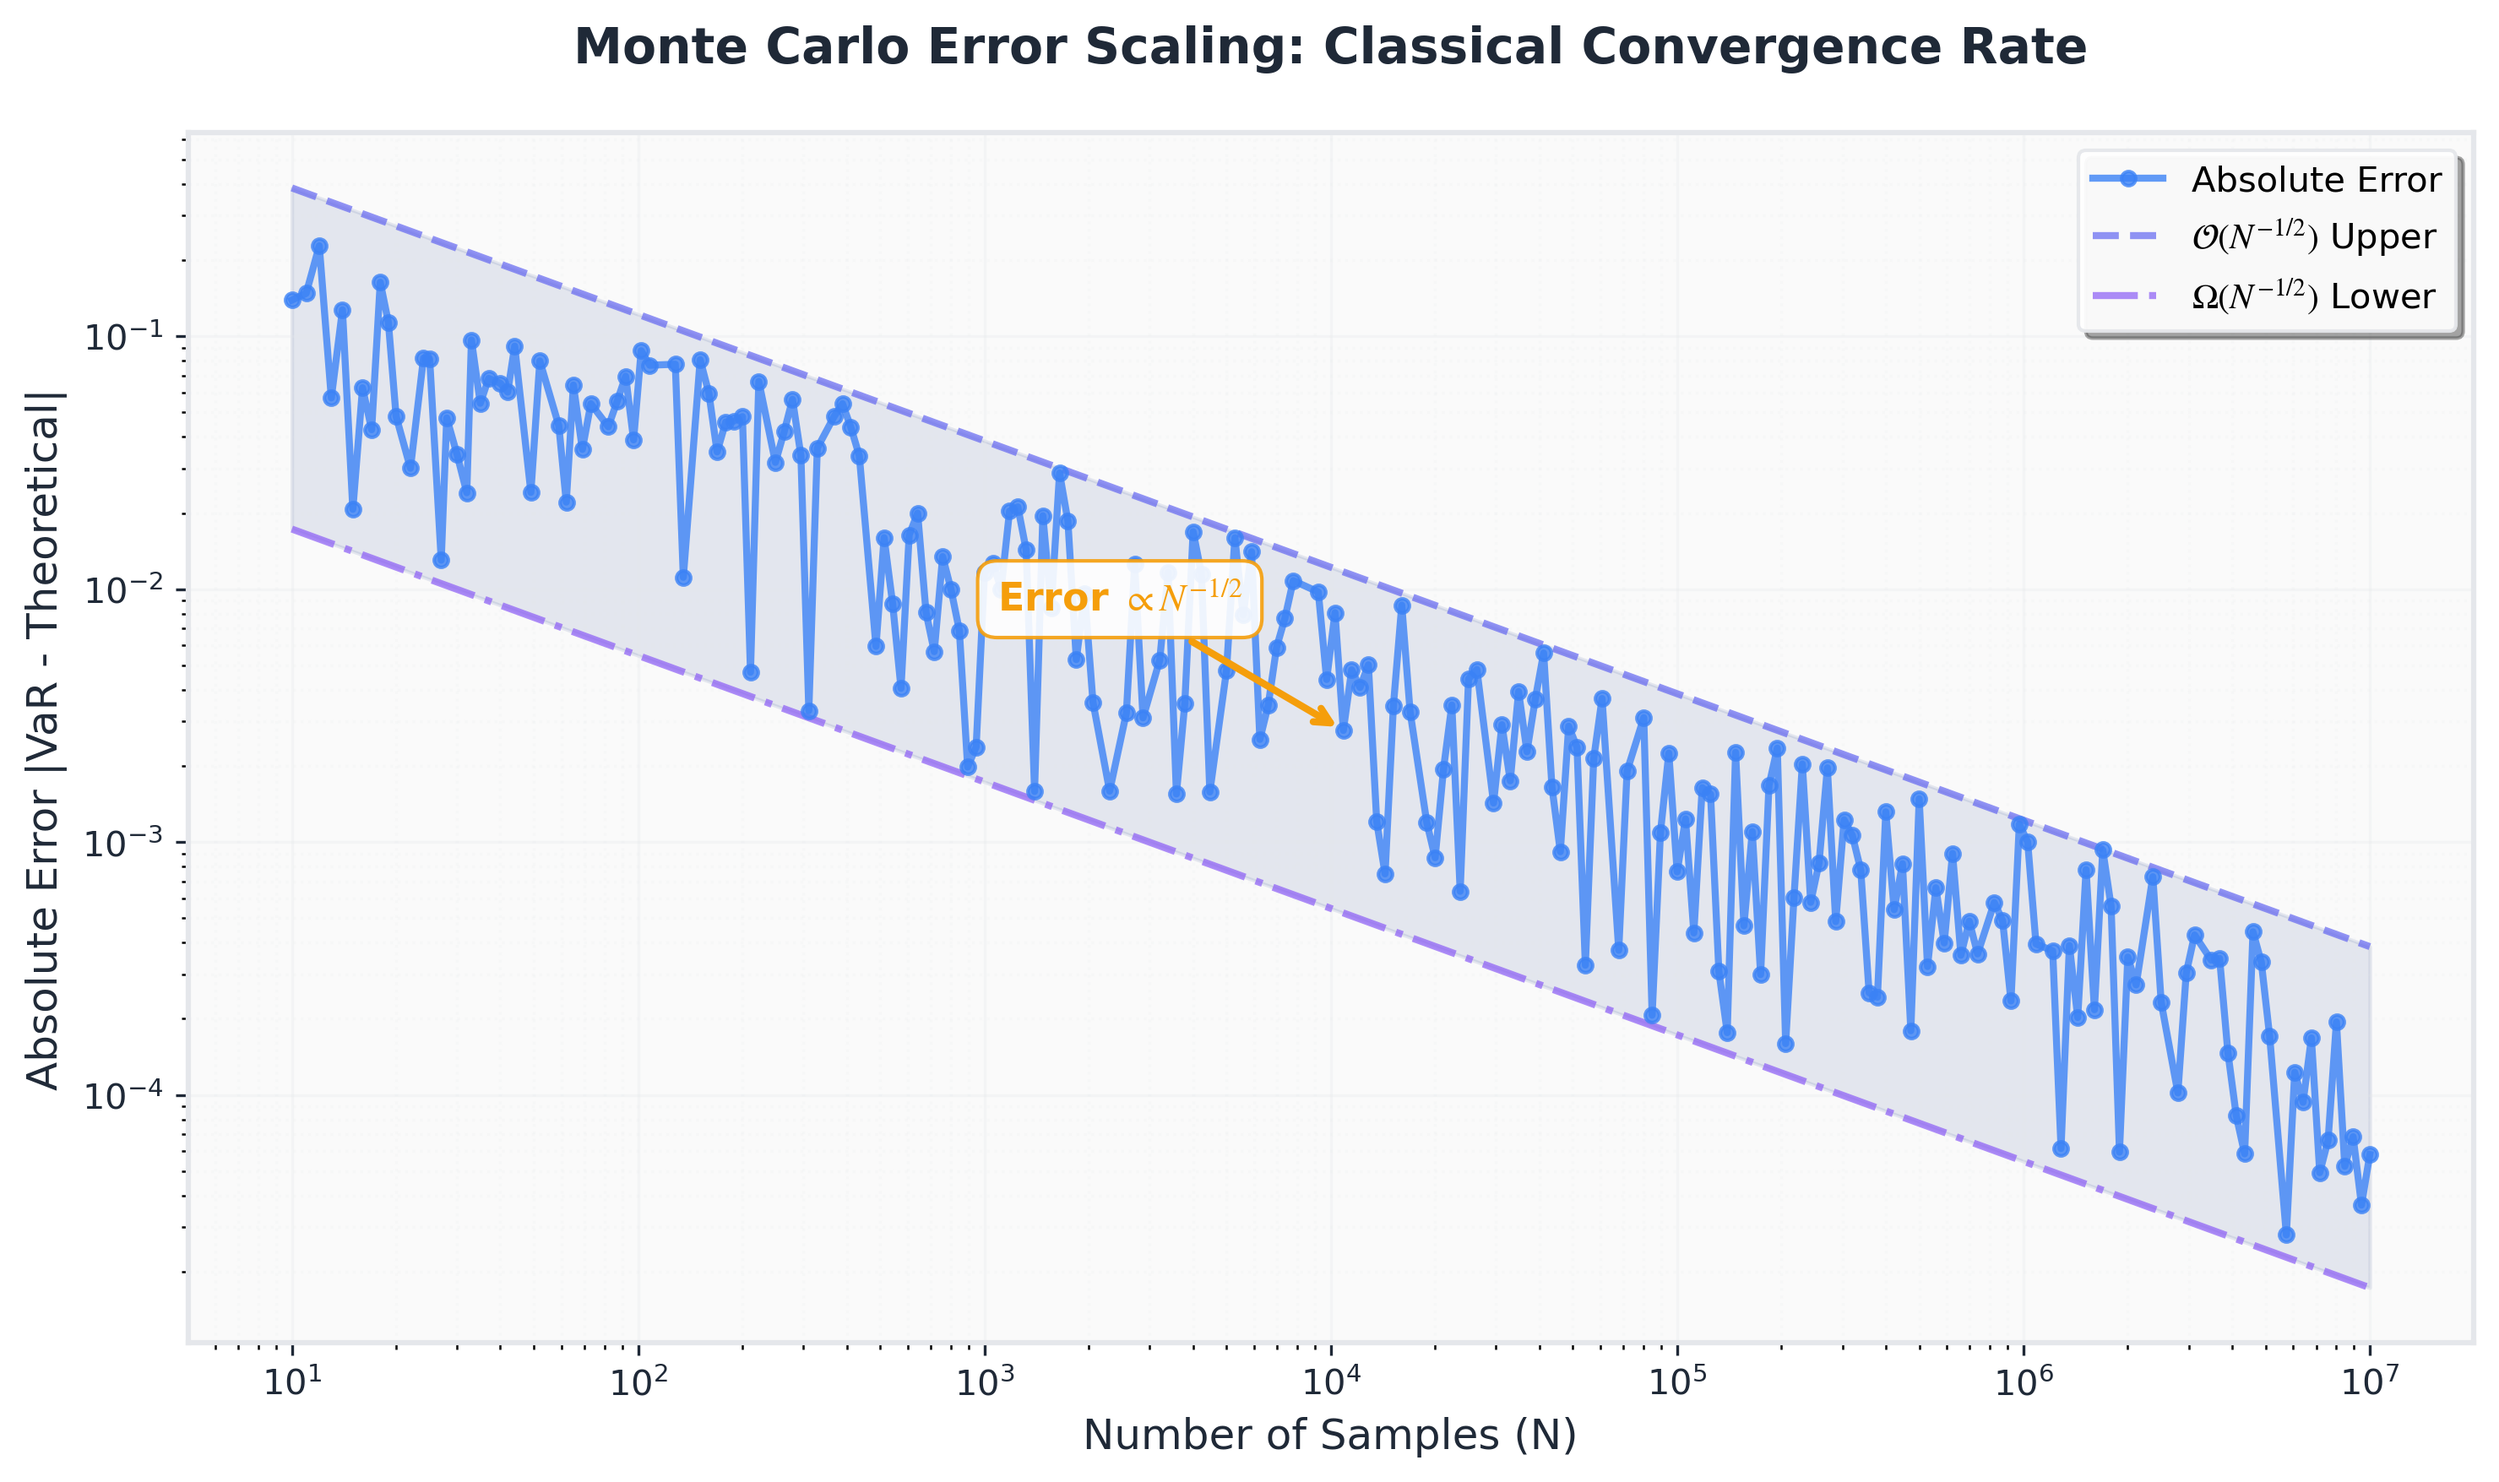
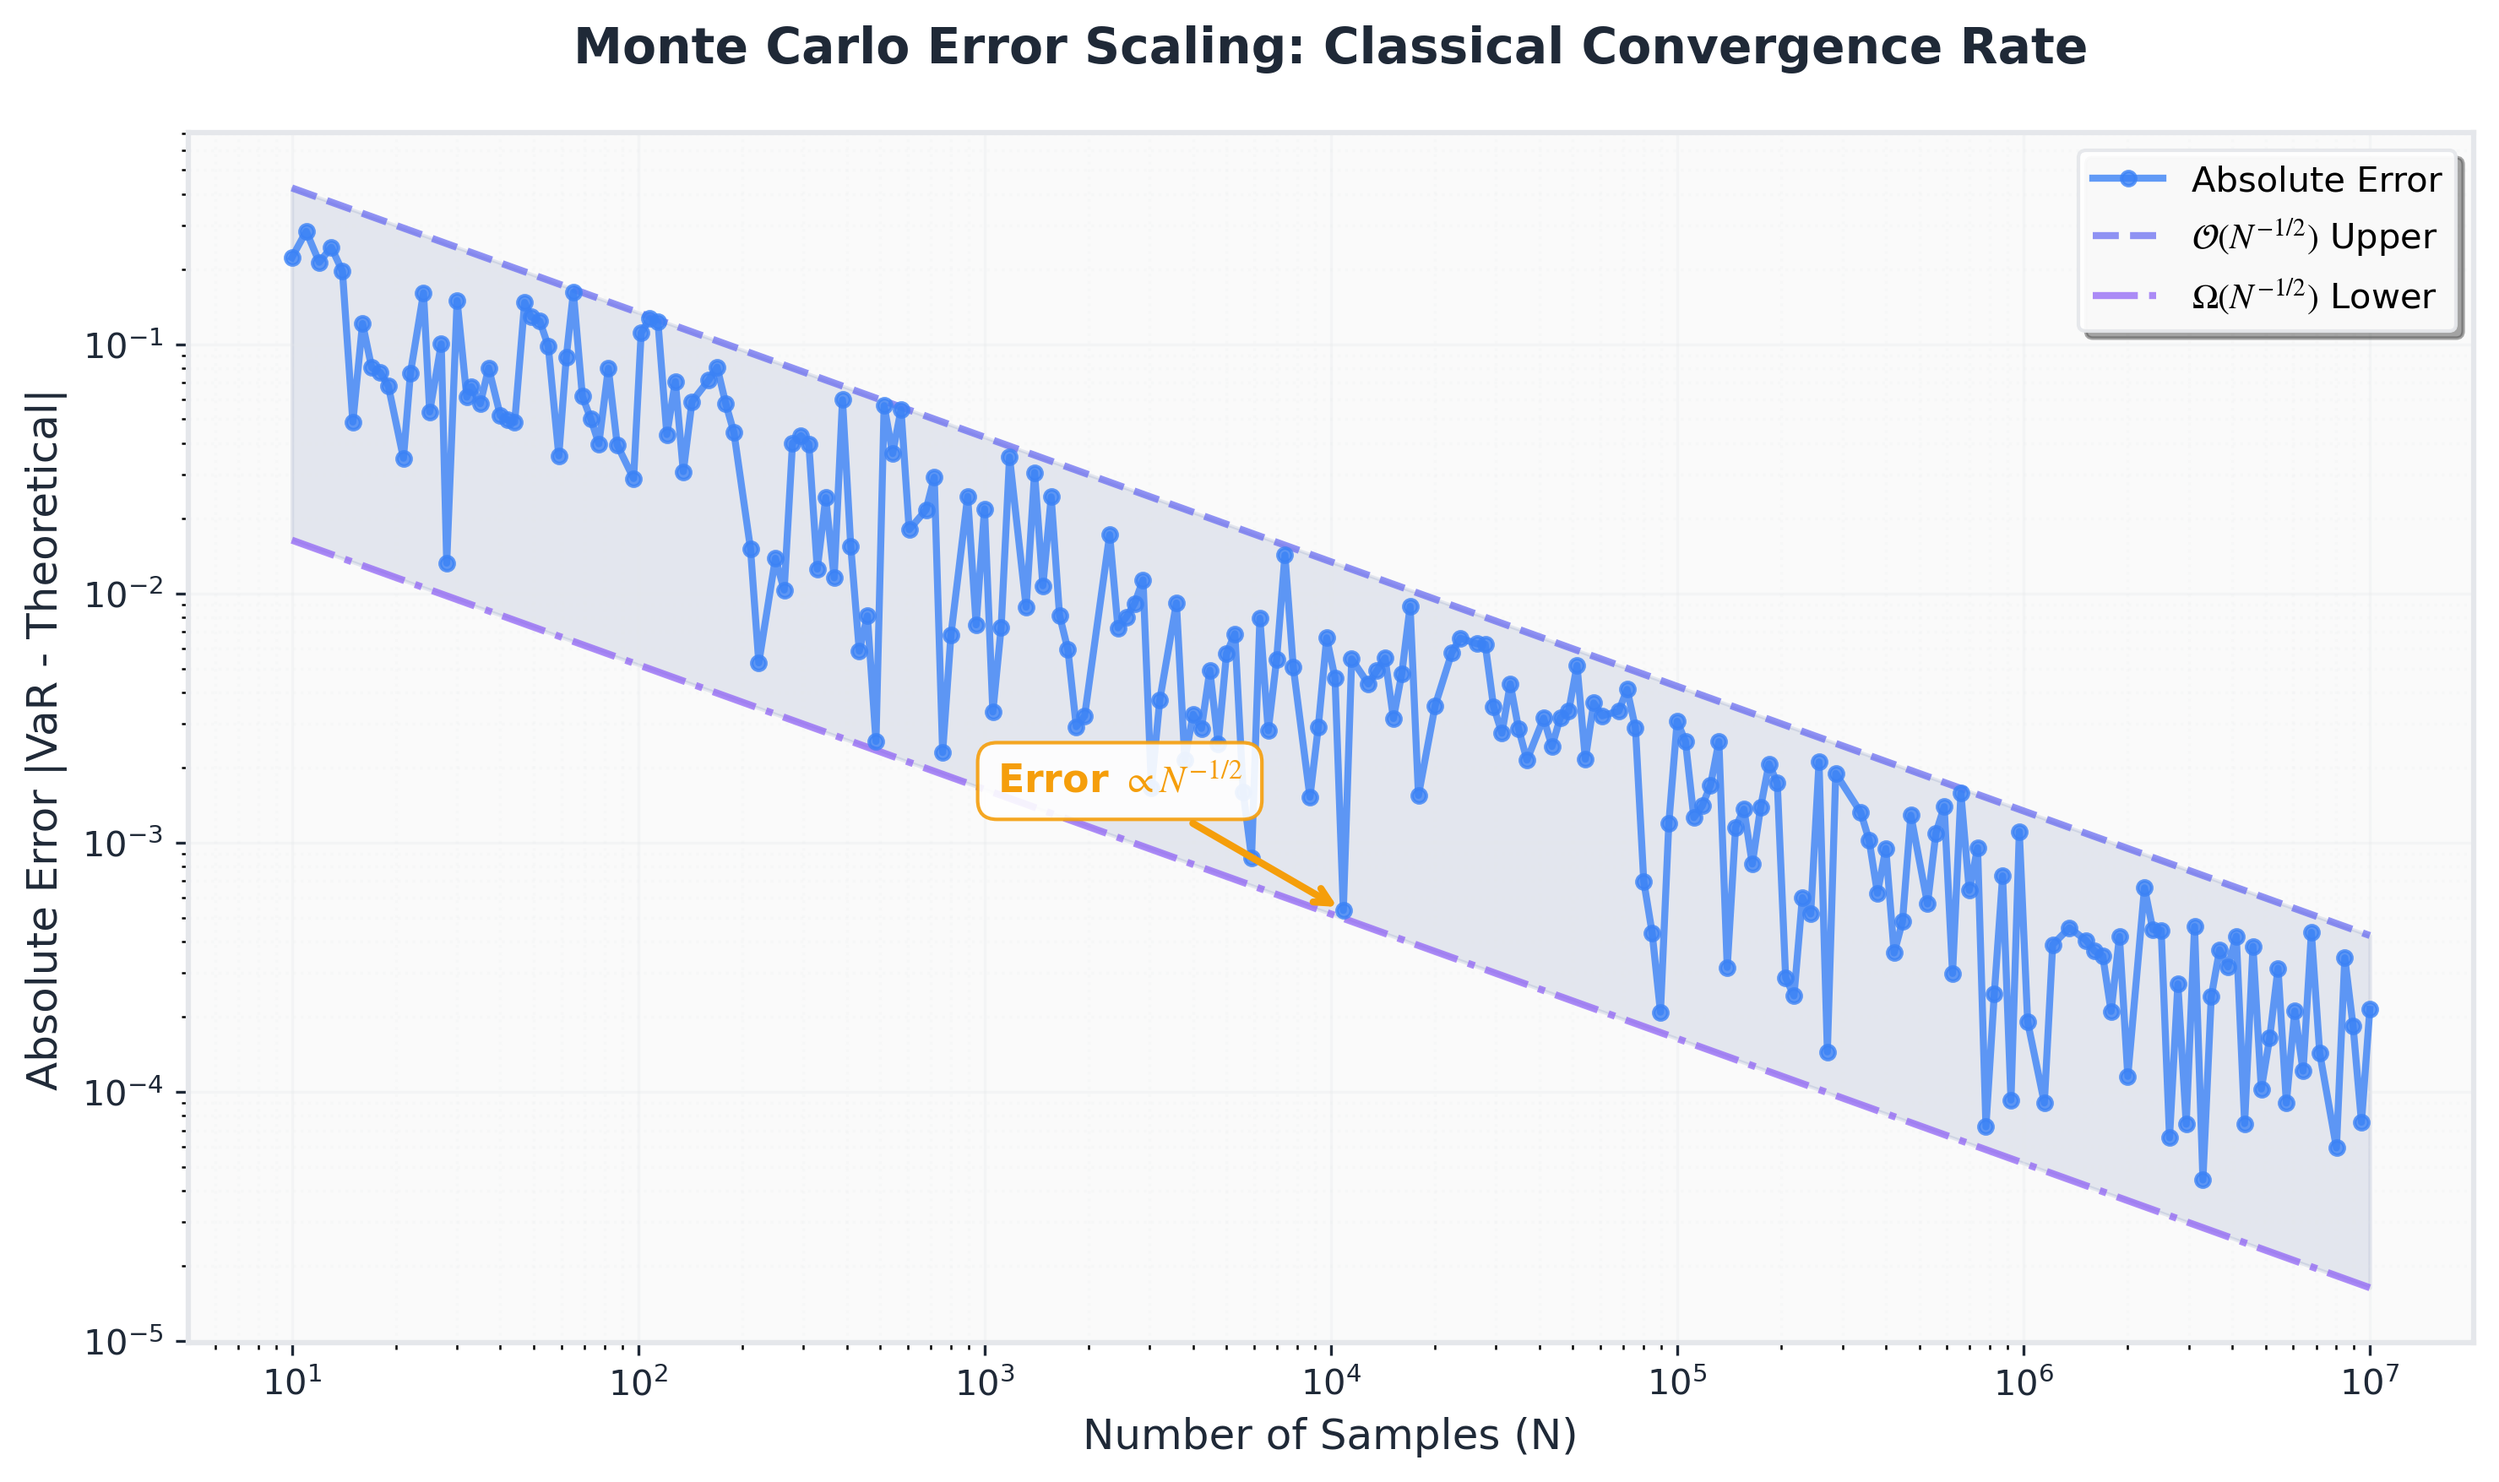
Fix VaR side
dropped losses idea, doing straight returns

diff --git a/step1/classical/enhanced_monte_carlo_graphs_multi_day.py b/step1/classical/enhanced_monte_carlo_graphs_multi_day.py
@@ -142,8 +142,8 @@ def monte_carlo_var(
     
     # Aggregate multi-day returns and compute VaR
     total_returns = daily_returns.sum(axis=1)
-    losses = -total_returns
-    var_estimate = np.quantile(losses, confidence_level)
+    # losses = -total_returns
+    var_estimate = np.quantile(total_returns, 1 - confidence_level)
     error = abs(var_estimate - theoretical_var)
     
     return MonteCarloResult(N, var_estimate, error)
@@ -306,8 +306,8 @@ if rho != 0.0 and T > 1:
     daily_returns = correlated_returns
 
 total_returns = daily_returns.sum(axis=1)
-losses = -total_returns
-var_for_plot = np.quantile(losses, confidence_level)
+# losses = -total_returns
+var_for_plot = np.quantile(total_returns, 1 - confidence_level)
 
 # Create distribution figure
 fig_dist, ax_dist = plt.subplots(figsize=(10, 6))
@@ -322,12 +322,12 @@ counts, bins, patches = ax_dist.hist(
 
 # VaR line
 ax_dist.axvline(
-    x=-var_for_plot, color=COLOR_DANGER, linestyle='--',
+    x=var_for_plot, color=COLOR_DANGER, linestyle='--',
     linewidth=2.5, alpha=0.9, label=f'VaR at {int(confidence_level*100)}%', zorder=5
 )
 
 # Shade VaR tail
-var_mask = bins[:-1] <= -var_for_plot
+var_mask = bins[:-1] <= var_for_plot
 if np.any(var_mask):
     for i, (patch, is_tail) in enumerate(zip(patches, var_mask)):
         if is_tail:
@@ -544,12 +544,12 @@ counts, bins, patches = ax_a.hist(
     density=True, edgecolor='white', linewidth=0.5
 )
 ax_a.axvline(
-    x=-var_for_plot, color=COLOR_DANGER,
+    x=var_for_plot, color=COLOR_DANGER,
     linestyle='--', linewidth=2.5, alpha=0.9, zorder=5
 )
 
 # Shade tail
-var_mask = bins[:-1] <= -var_for_plot
+var_mask = bins[:-1] <= var_for_plot
 for patch, is_tail in zip(patches, var_mask):
     if is_tail:
         patch.set_facecolor(COLOR_DANGER)
